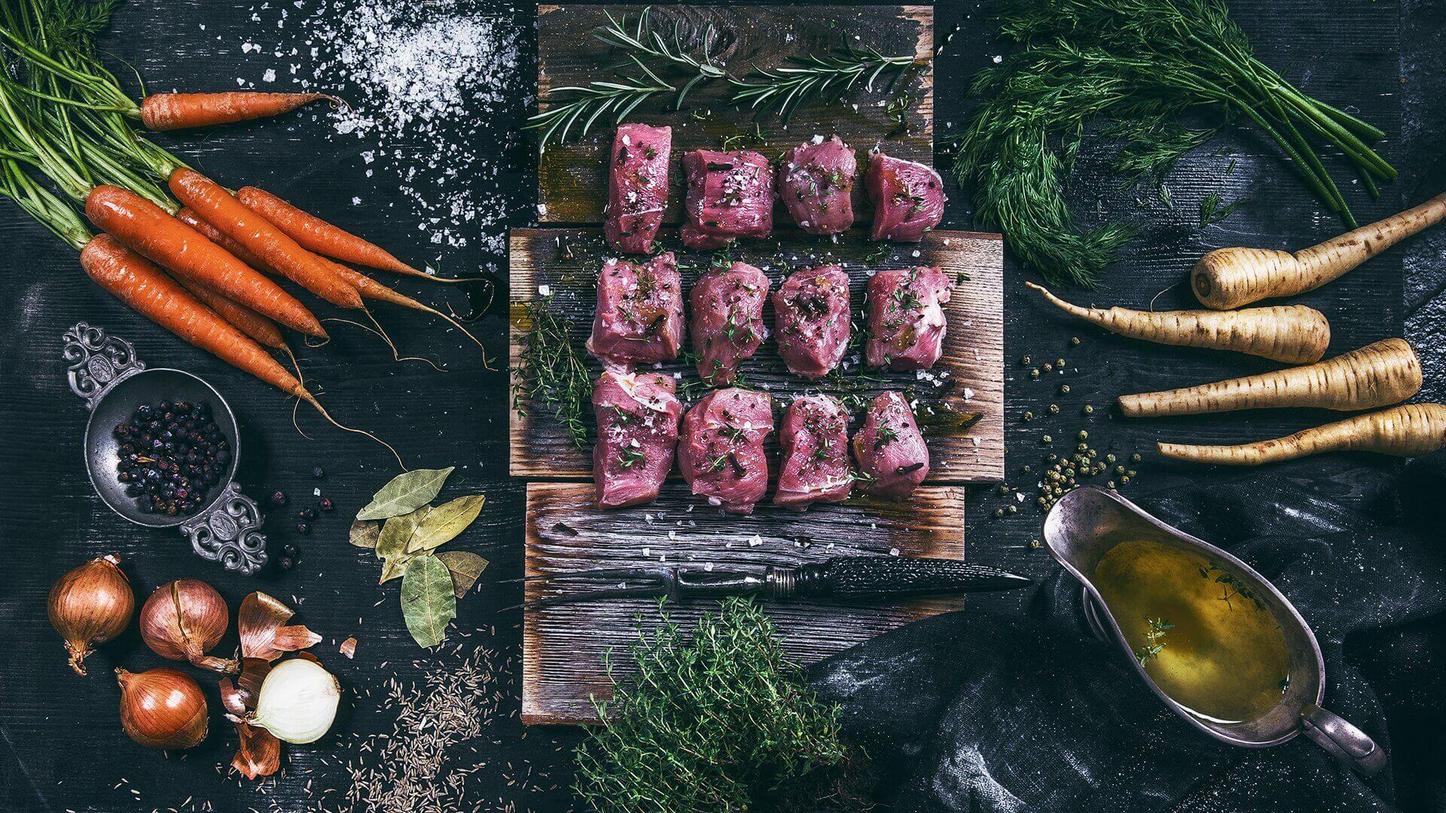
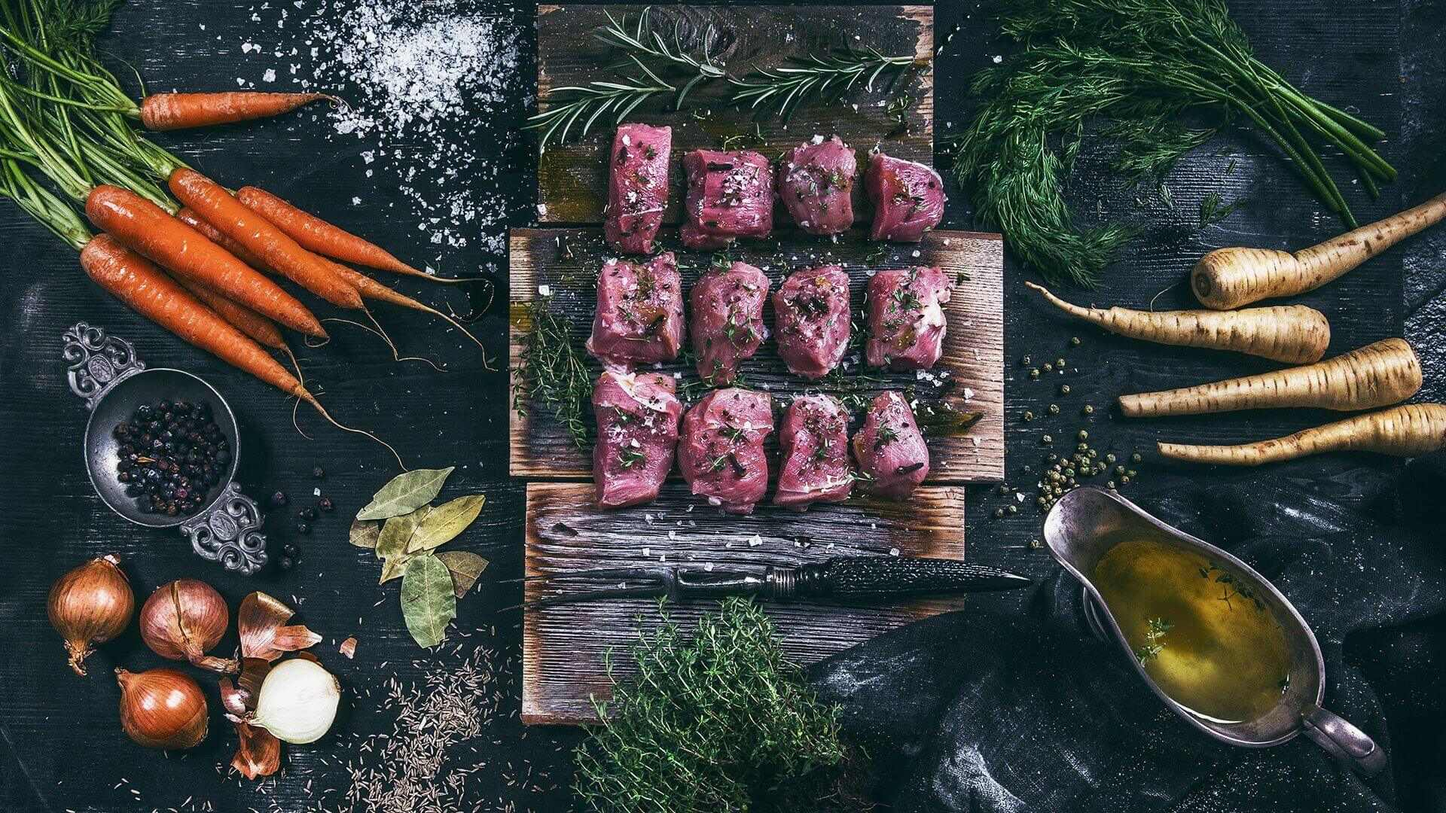
even more image optimization

diff --git a/index.html b/index.html
@@ -22,7 +22,7 @@
   <body>
     <div class="site-wrapper">
       <header class="header">
-        <div class="header-inner" style="background-image: url(./assets/img/bg/hero1.jpg);">
+        <div class="header-inner" style="background-image: url(./assets/img/bg/hero1.jpg);" loading="eager">
           <div class="hero-overlay">
             <!--HERO DECORATIONS-->
             <div class="hero-dec-top"></div>
